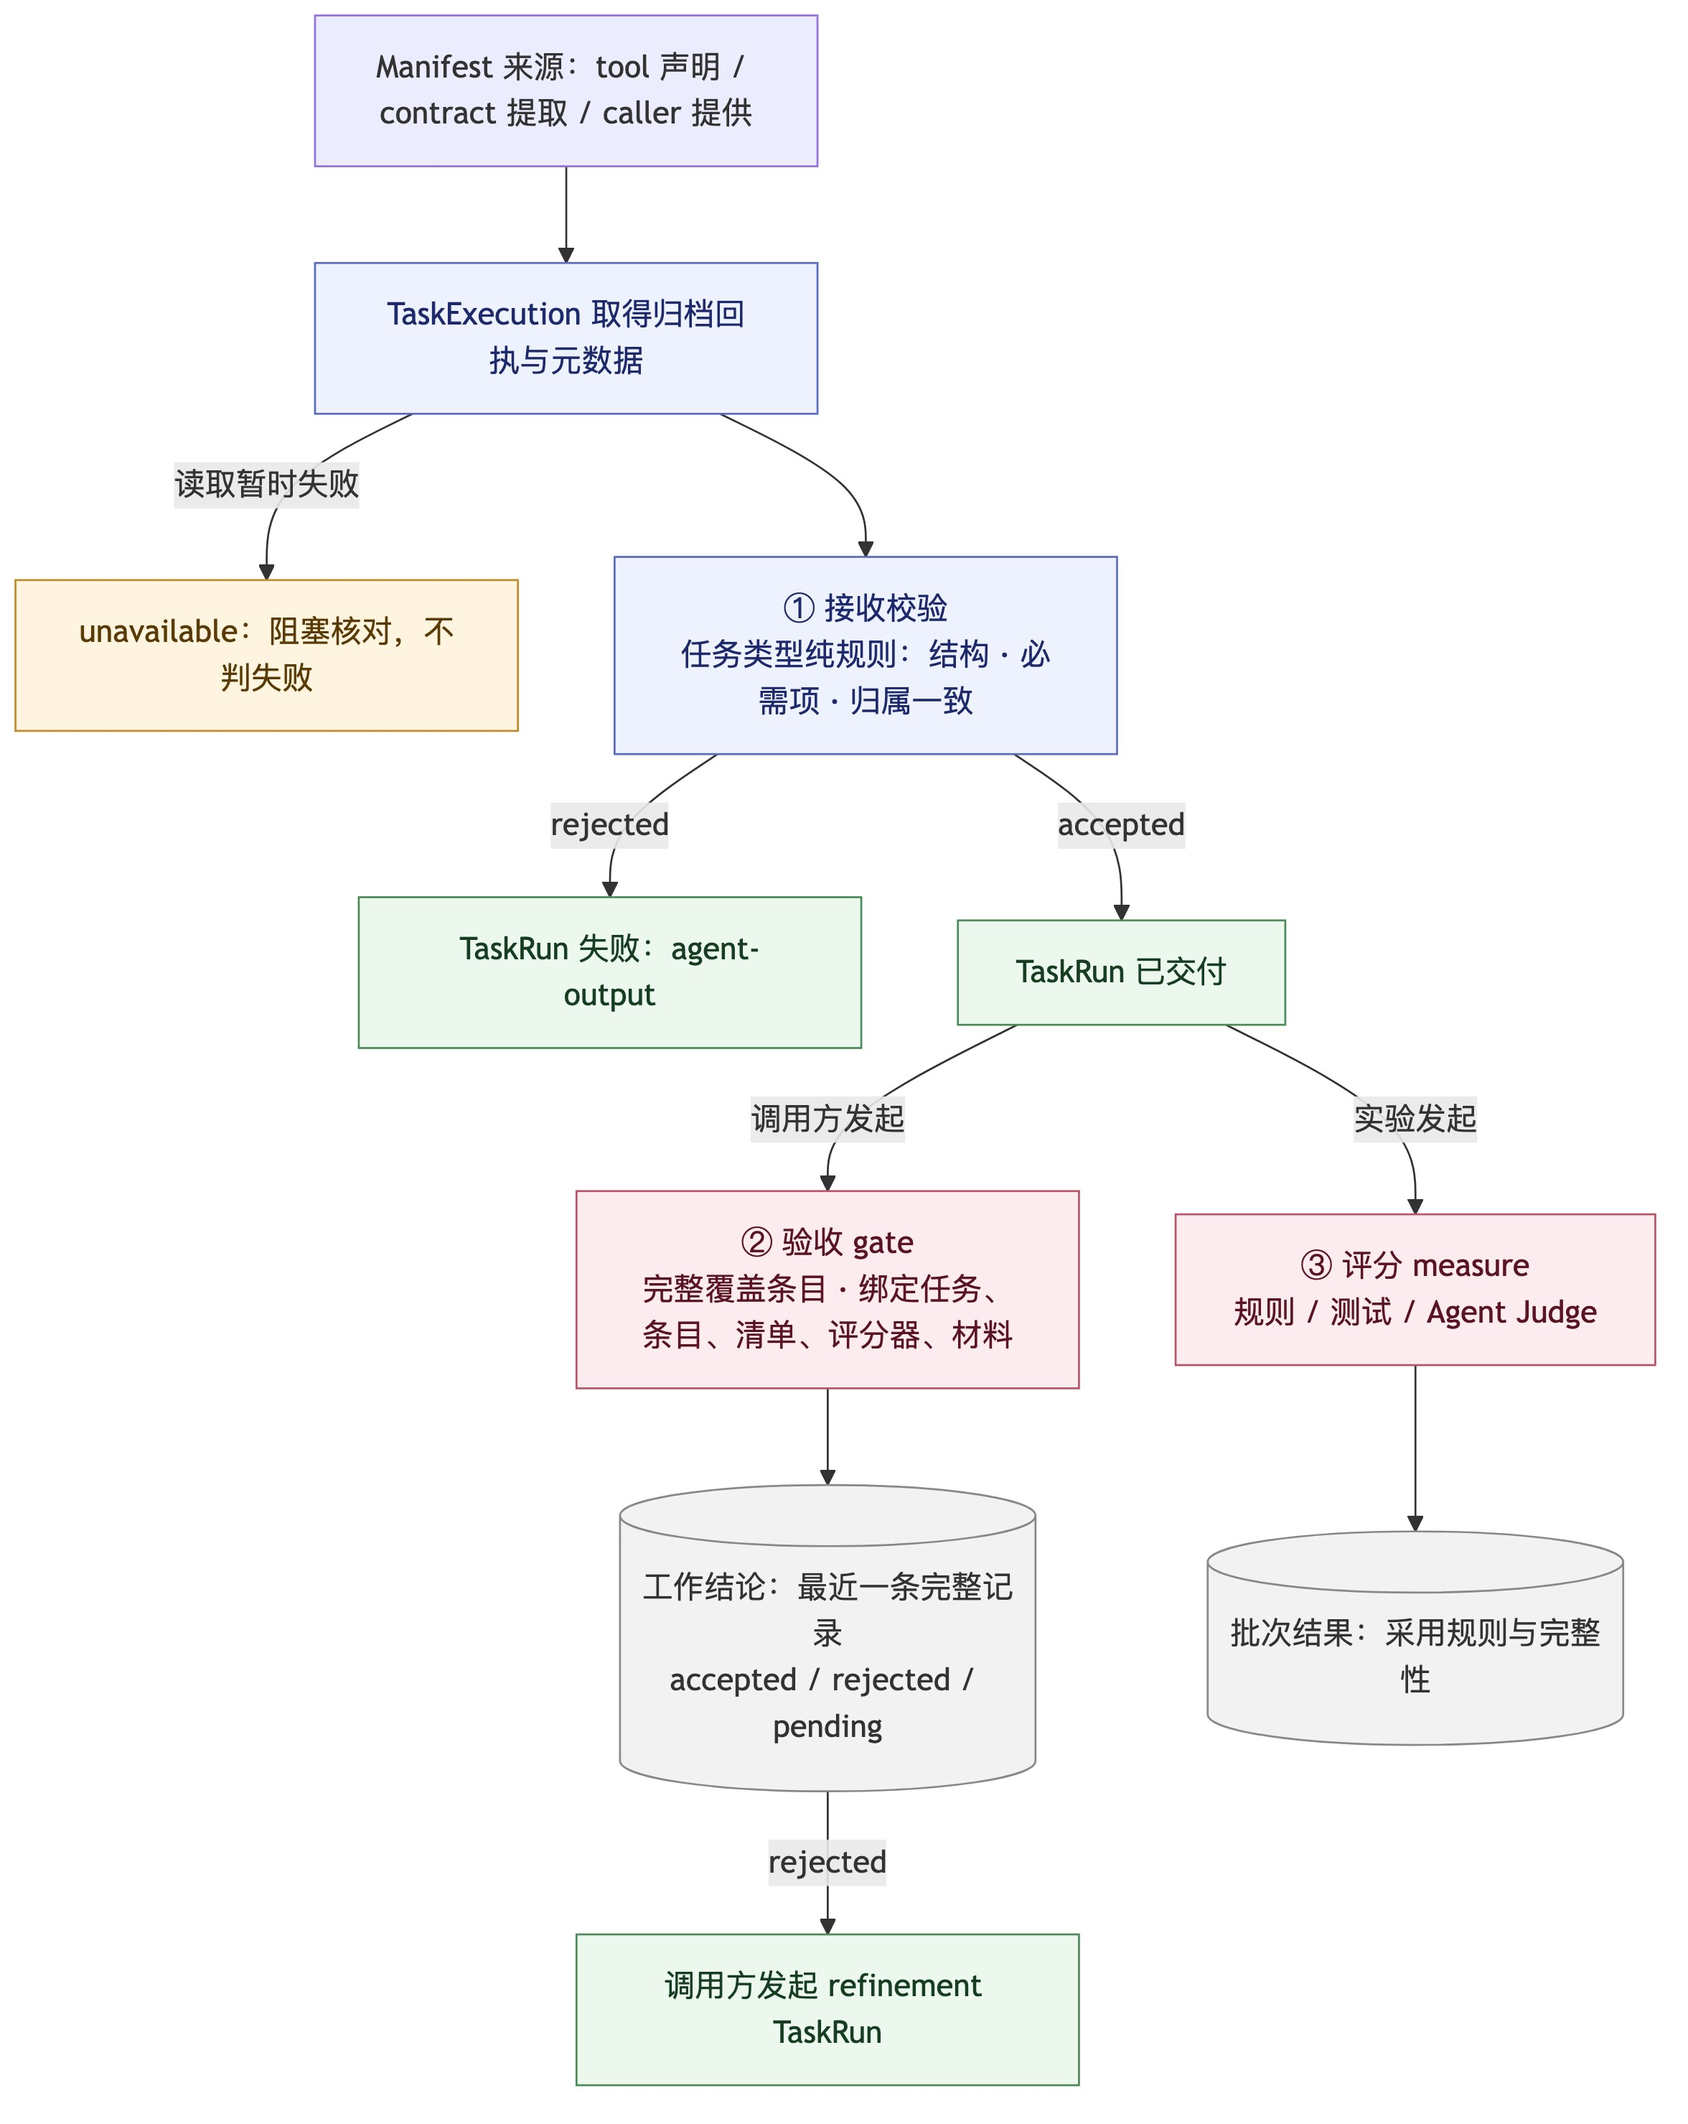
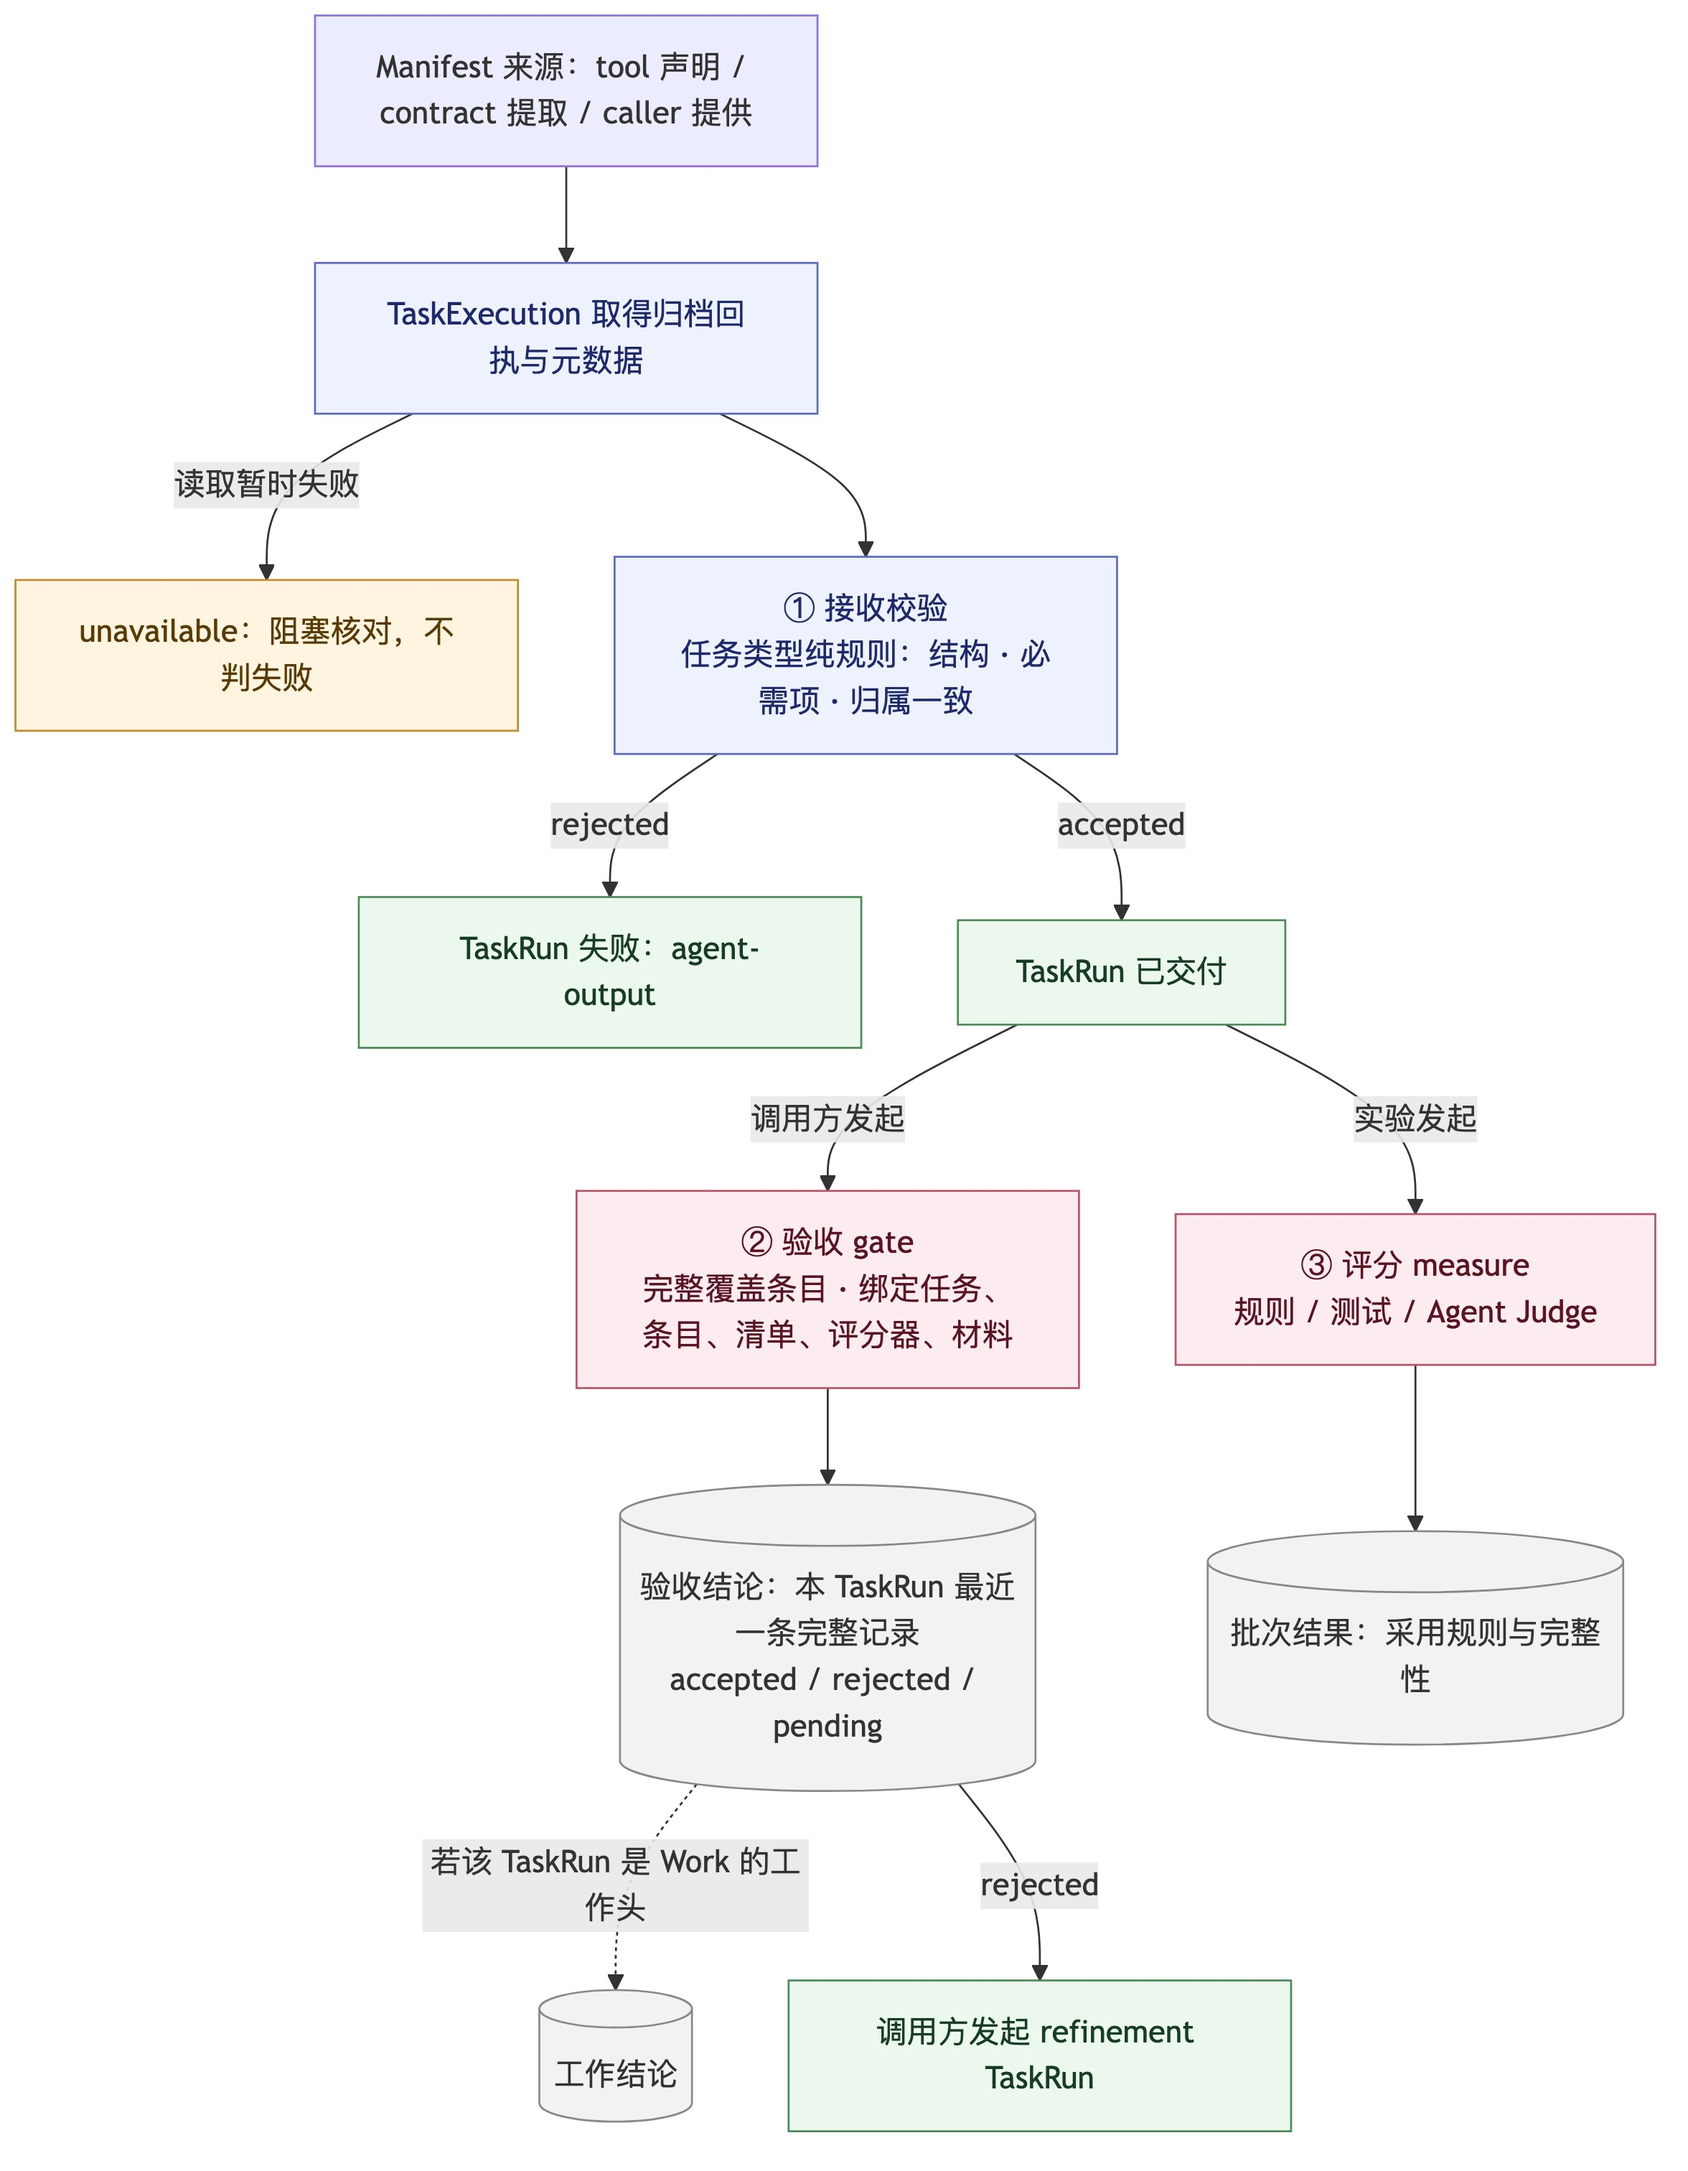
docs: define work closing, grading races and migration rules (D144)
Add the Work closing protocol, first-commit-wins termination for grading cancellation versus command faults, a total work-conclusion query, DevRun-to-Work migration principles, a home for legacy RunCommand observations, and the remaining diagram and annotation fixes.

diff --git a/docs/decisions/0001-unified-agent-evaluation.md b/docs/decisions/0001-unified-agent-evaluation.md
@@ -1,11 +1,11 @@
 # 通用 Agent 评测：开发共识与实施依据
 
-- 日期：2026-10-31；最近更新：2026-11-02（D129–D143 目标模型 R2 已确认）。
+- 日期：2026-10-31；最近更新：2026-11-02（D129–D144 目标模型 R2 已确认）。
 - 决策状态：**已接受总体方向；实现尚未完成**。
 - 范围：Grounds CLI 的评测领域模型、Agent 适配、轨迹与产物、并发，以及评测与开发共用的环境治理领域模型和容器执行。
 - 用途：持续维护的开发依据。后续讨论形成的新结论更新本文件；提议、已确认要求与实际完成情况分别记录。
 
-阅读顺序：**先读[目标模型](0001-target-model.md)**，它是 D129–D143 修订后可以单独阅读的当前目标模型（R2）（已确认，待实现）；第 3 节“D128 历史收敛版”只用于查阅旧迁移表与修订前的关系；后续旧图仅作历史说明。深模块边界仍见第 3 节；当前源码状态看第 5 节；第 7 节保留方案比较与此前评审，第 9 节为尚待验证的验收目标。
+阅读顺序：**先读[目标模型](0001-target-model.md)**，它是 D129–D144 修订后可以单独阅读的当前目标模型（R2）（已确认，待实现）；第 3 节“D128 历史收敛版”只用于查阅旧迁移表与修订前的关系；后续旧图仅作历史说明。深模块边界仍见第 3 节；当前源码状态看第 5 节；第 7 节保留方案比较与此前评审，第 9 节为尚待验证的验收目标。
 
 ## 1. 我们要交付什么
 
@@ -1768,6 +1768,8 @@ flowchart LR
 
 #### D138：R1 独立评审后的补充——已确认，待实现
 
+> **D143 修订：** 下文的 CommandRun 聚合已改为 GradingRecord 内部的命令步骤，AgentExecution 保留为独立聚合。
+
 > **R2 修订（D140，已确认）：** EvalRun 的有状态记录、实例唯一绑定、`caller-ended` 失败类别、`gate_grader` 冻结，已被 D140 取代。现行模型见[目标模型](0001-target-model.md)。
 
 **来源：** 2026-11-02，用户请独立评审 Agent 复查 R1，评审给出 22 条发现（结论 BLOCK）。助手逐条核对后认为全部成立，提出处理建议；其中四项需要业务取舍，经用户确认采纳。全部内容已并入[目标模型](0001-target-model.md)，本节只记录选择。
@@ -1805,7 +1807,7 @@ flowchart LR
 
 > **D143 修订：** 下文“CommandRun 与 AgentExecution 合并为 Operation”已被 D143 取代。
 
-> **D141 修正：** 下文“工作结论 = 最近一份交付上……”的说法已收窄：工作结论只针对单个已交付的 TaskRun，整棵 refinement 树不下总结论。
+> **D141 / D142 修正：** 下文“工作结论 = 最近一份交付上……”的说法已改为两层：单个已交付 TaskRun 的结果称为“验收结论”；一项开发工作（Work）的工作结论，取其当前工作头的验收结论。
 
 **来源：** 2026-11-02，用户请一个 Agent 挑战领域层设计。该 Agent 盘点了 R1 的约 40 个具名概念和 8 个状态机，逐个做了反事实检验，提出三个替代方案，并分开标注“确定更好”与“品味偏好”。助手核对后建议全部采纳，用户确认。完整模型见[目标模型](0001-target-model.md)。
 
@@ -1891,6 +1893,22 @@ flowchart LR
 **结果：** 运行聚合仍为 9 个（AgentExecution 替换 Operation）；不再有按类型分支的不变量和合法组合表；评分完成与命令结束在同一聚合内原子成立。
 
 **代价：** GradingRecord 稍大，命令运行期间的状态更新会落到它的版本上；评价者有两种形态（外部聚合与内部实体）。这种不对称有业务依据：只有 Agent 执行具有独立生命与恢复能力。将来若 TaskRun 也需要确定性的命令步骤，可以复用同一内部实体类型，有独立查询或恢复需求时再升级为聚合。完整模型见[目标模型](0001-target-model.md)。
+
+#### D144：Work 结束协议、评分终态竞争与迁移原则——已确认，待实现
+
+**来源：** 2026-11-02 独立复审 D141–D143（结论 BLOCK）。上一轮 14 条基本闭合；D142 与 D143 的取舍得到认可。剩余问题包括两个可复现的竞态，以及迁移规则和文档的缺口。助手按推荐方案补齐，用户此前已授权“先审再推”并采纳推荐处理。完整规则见[目标模型](0001-target-model.md)第 4.5、4.6、12 节。
+
+| 问题 | 选择 | 放弃的方案 |
+| --- | --- | --- |
+| 结束工作时，Work 下仍有活动的 TaskRun 或 gate | 先登记结束意图，关闭入口；若仍有非终态 TaskRun，返回冲突并列出它们，系统不自动取消；全部终结后，为保留的 Sandbox 登记释放预留，再提交“已结束”，并记录结束时的工作头与工作结论。gate 不受影响，结束后工作结论仍可能随重验变化，结束事实与之并列展示 | 自动取消活动 TaskRun（替用户做破坏性决定）；先结束 Work、让分支继续运行（其 Sandbox 会错过释放扫描） |
+| 命令结果未知与取消同时发生 | 先提交的终结转换生效：取消意图先提交时只能走向已取消，“退出结果未知”仅作诊断保留；故障或完成先提交时，取消请求返回该终态。写明命令步骤的状态；CAS 冲突必须重读后重新判定；流式输出写入外部存储 | 固定以评分器故障优先（与“用户取消”的意图冲突） |
+| 工作头为已取消或待开始时，工作结论没有定义 | 工作结论定义为覆盖全部情况的查询结果：in-progress、failed、cancelled、pending、accepted、rejected、head-unselected | — |
+| DevRun 迁移时，历史工作头无法判定 | 按 Issue 与 `refines_candidate_id` 划分 Work 树。只有一个叶子时，以“迁移默认”为原因设为工作头；多个叶子时工作头暂空（head-unselected），等用户选择；不按时间推断。另给出 submitted、abandoned、open 的状态映射原则 | 按最新时间选择工作头（违反 D141、D142） |
+| VerificationRun 的 `RunCommand` 没有承载位置 | 评价者 AgentExecution 增加只追加的协议命令观测；测试型评分器的 `ProcessResult` 映射为命令步骤 | 迁成命令步骤（会混淆两种语义） |
+| 同一 Task 可否有多个 Work | 可以，在目标模型中写明 | — |
+| 文档 | `model-checks` 图分开验收结论与工作结论；更新 D140 顶部提示；D138 补 D143 标注 | — |
+
+**评审判断：** 补齐这两项竞态后，目标模型无需再大改聚合边界，可以进入实现方案设计；DevRun 迁移应作为实现方案的第一个决策。
 
 ## 3. 核心领域概念
 

diff --git a/docs/README.md b/docs/README.md
@@ -12,7 +12,7 @@ Grounds keeps a versioned ledger of requirements, issues, development runs, cand
 - [Documentation maintenance](documentation.md): responsibilities, reading routes, update triggers, and validation.
 - [Decisions](decisions/README.md): accepted directions, alternatives, and implementation status.
 - [通用 Agent 评测开发共识](decisions/0001-unified-agent-evaluation.md): living development guide for task, Agent, trajectory, artifact, grading, concurrency, and container boundaries; implementation pending.
-- [通用 Agent 执行与评测目标模型（R2）](decisions/0001-target-model.md): accepted consolidated target model (D129–D143) with aggregates, invariants, application modules and flows; read before the full decision record; implementation pending.
+- [通用 Agent 执行与评测目标模型（R2）](decisions/0001-target-model.md): accepted consolidated target model (D129–D144) with aggregates, invariants, application modules and flows; read before the full decision record; implementation pending.
 - [Grounds workflow skill](../plugins/grounds/skills/grounds/SKILL.md): agent workflow entry point.
 - [Agent documentation research](research/agent-documentation.md): historical evidence and proposals; follow the maintenance rules above for adopted policy.
 - [开源 Agent Artifact 源码调研](research/agent-artifact-design.md): pinned-source comparison of ADK, LangChain and smolagents; findings and proposals, not implemented policy.

diff --git a/docs/decisions/README.md b/docs/decisions/README.md
@@ -5,4 +5,4 @@ Decision status describes an accepted direction, not implementation completion. 
 | Decision | Status | Implementation |
 | --- | --- | --- |
 | [0001 — 通用 Agent 评测：开发共识与实施依据](0001-unified-agent-evaluation.md) | Accepted direction; maintained as discussion evolves | Pending; see gaps and acceptance targets in the record |
-| [0001 — 通用 Agent 执行与评测：目标模型（R2）](0001-target-model.md) | Accepted (D129–D143); current target model | Pending |
+| [0001 — 通用 Agent 执行与评测：目标模型（R2）](0001-target-model.md) | Accepted (D129–D144); current target model | Pending |
